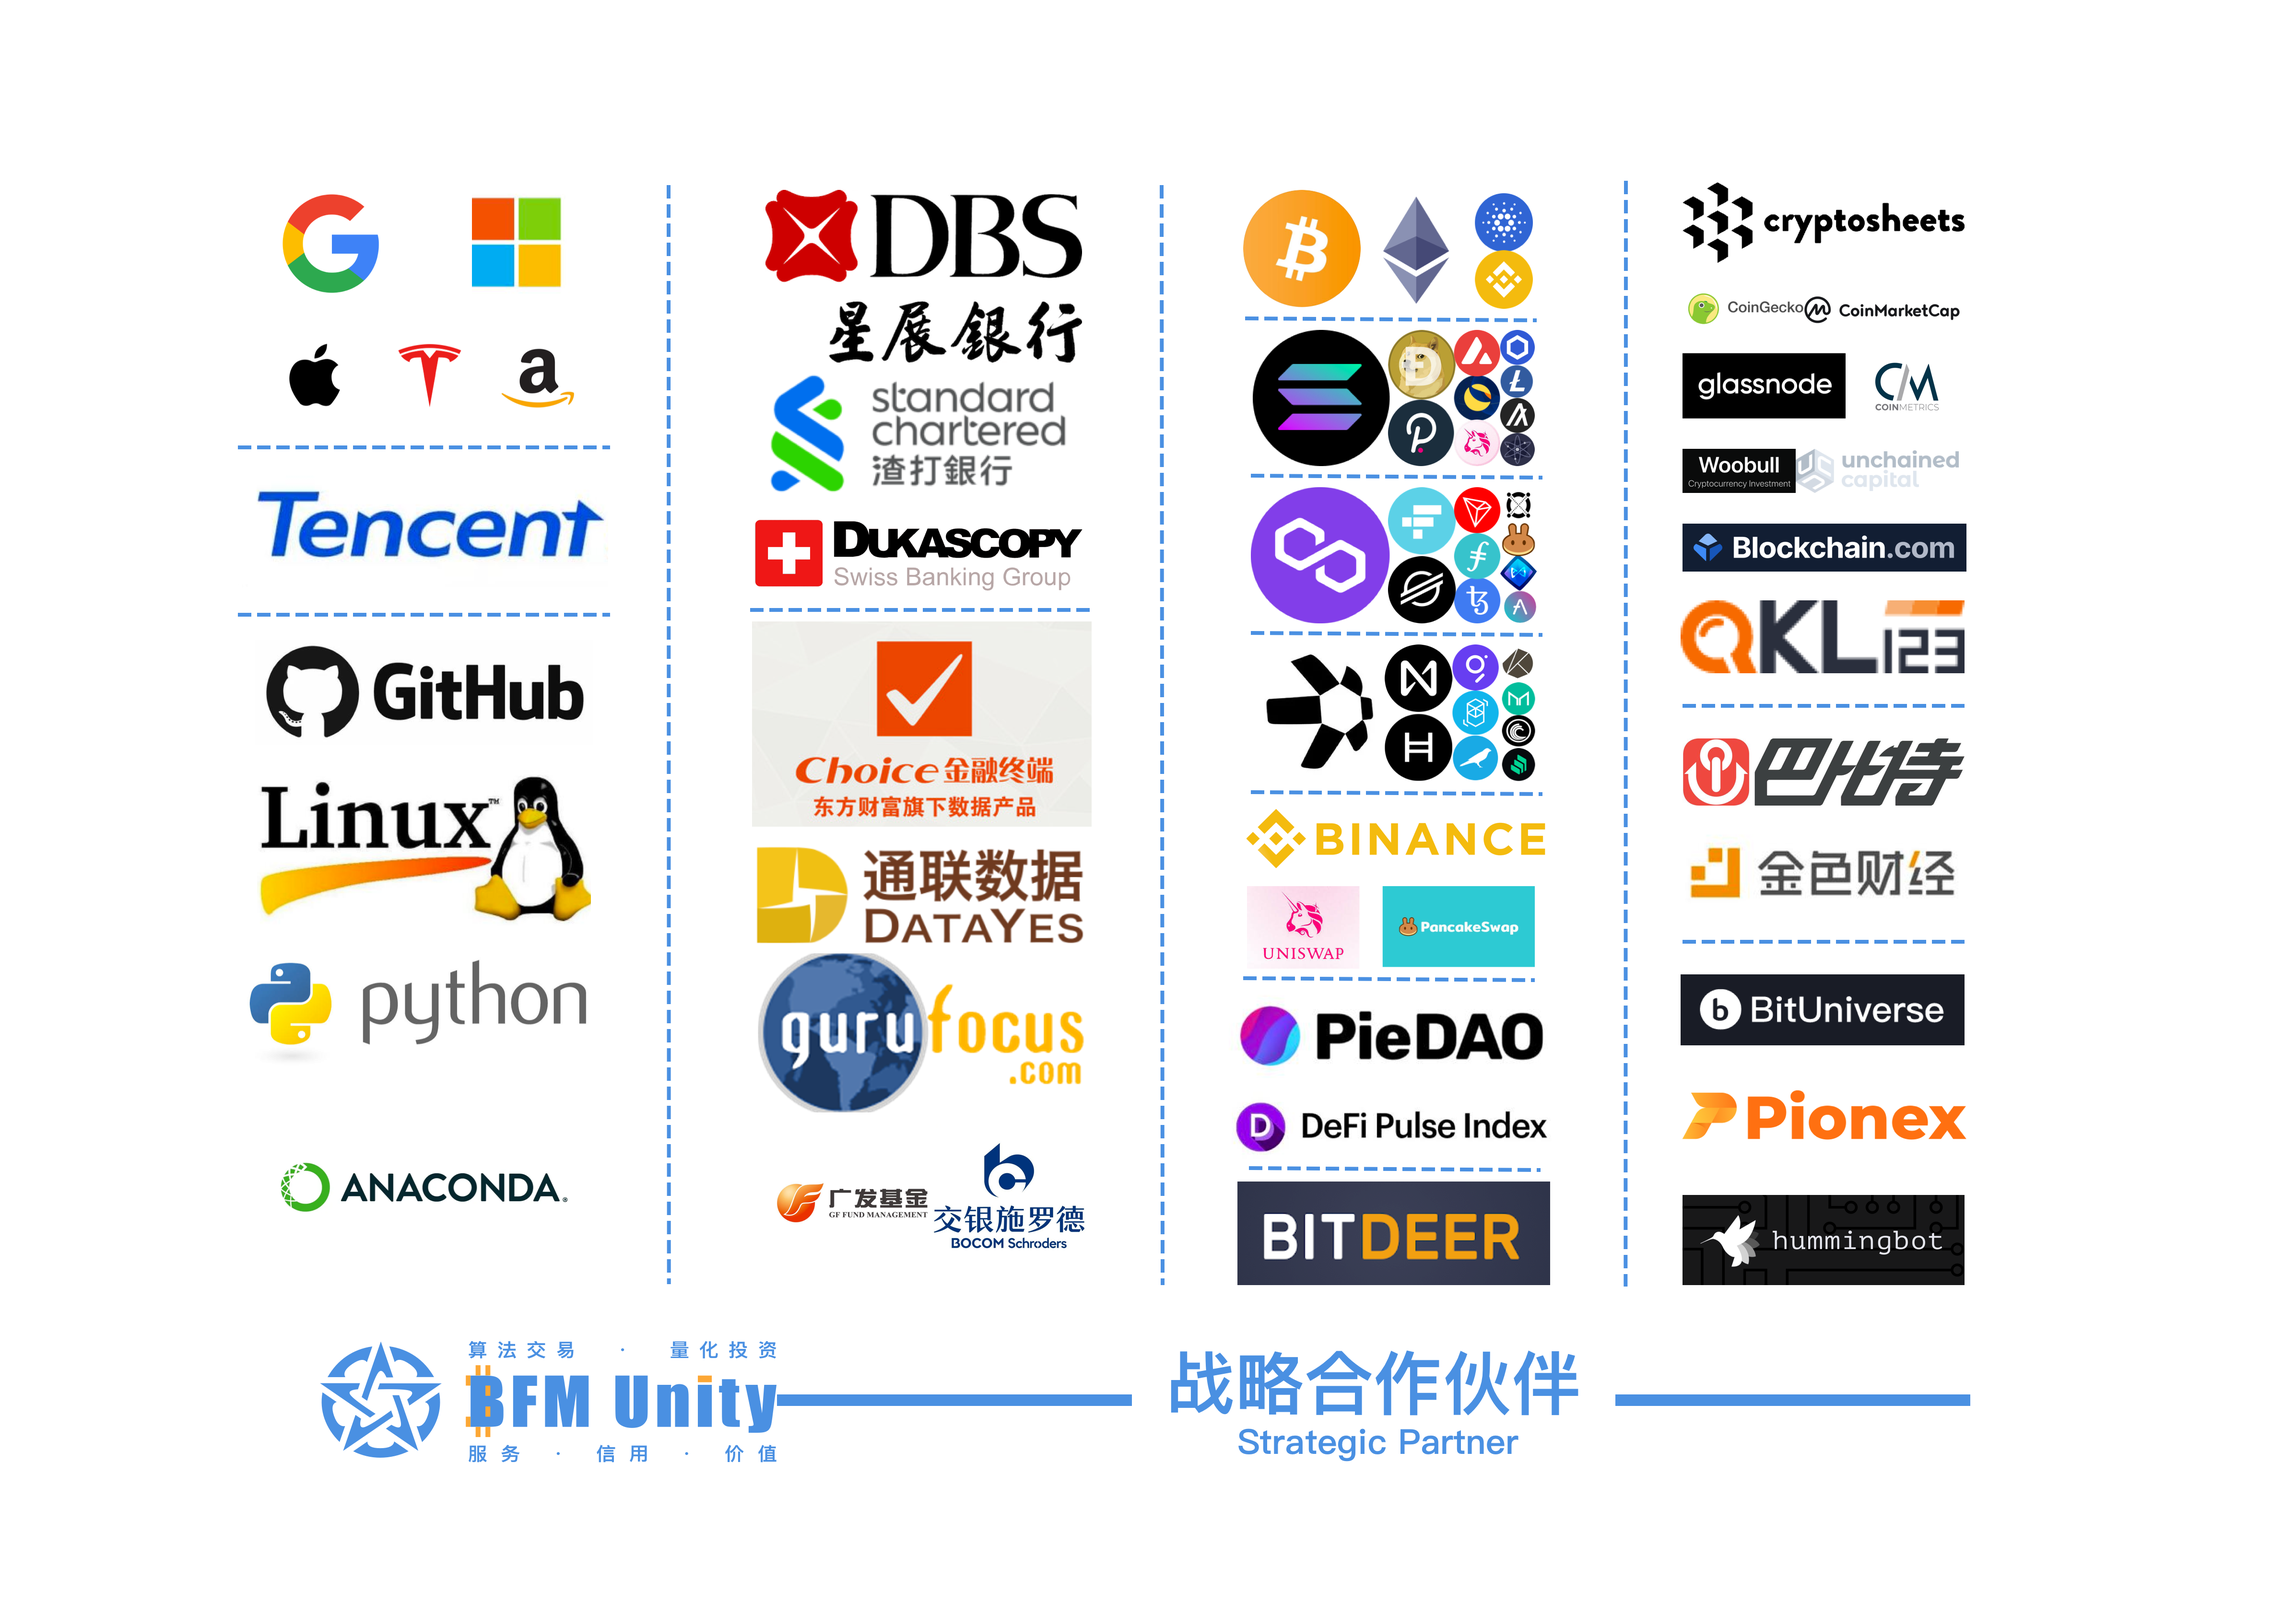
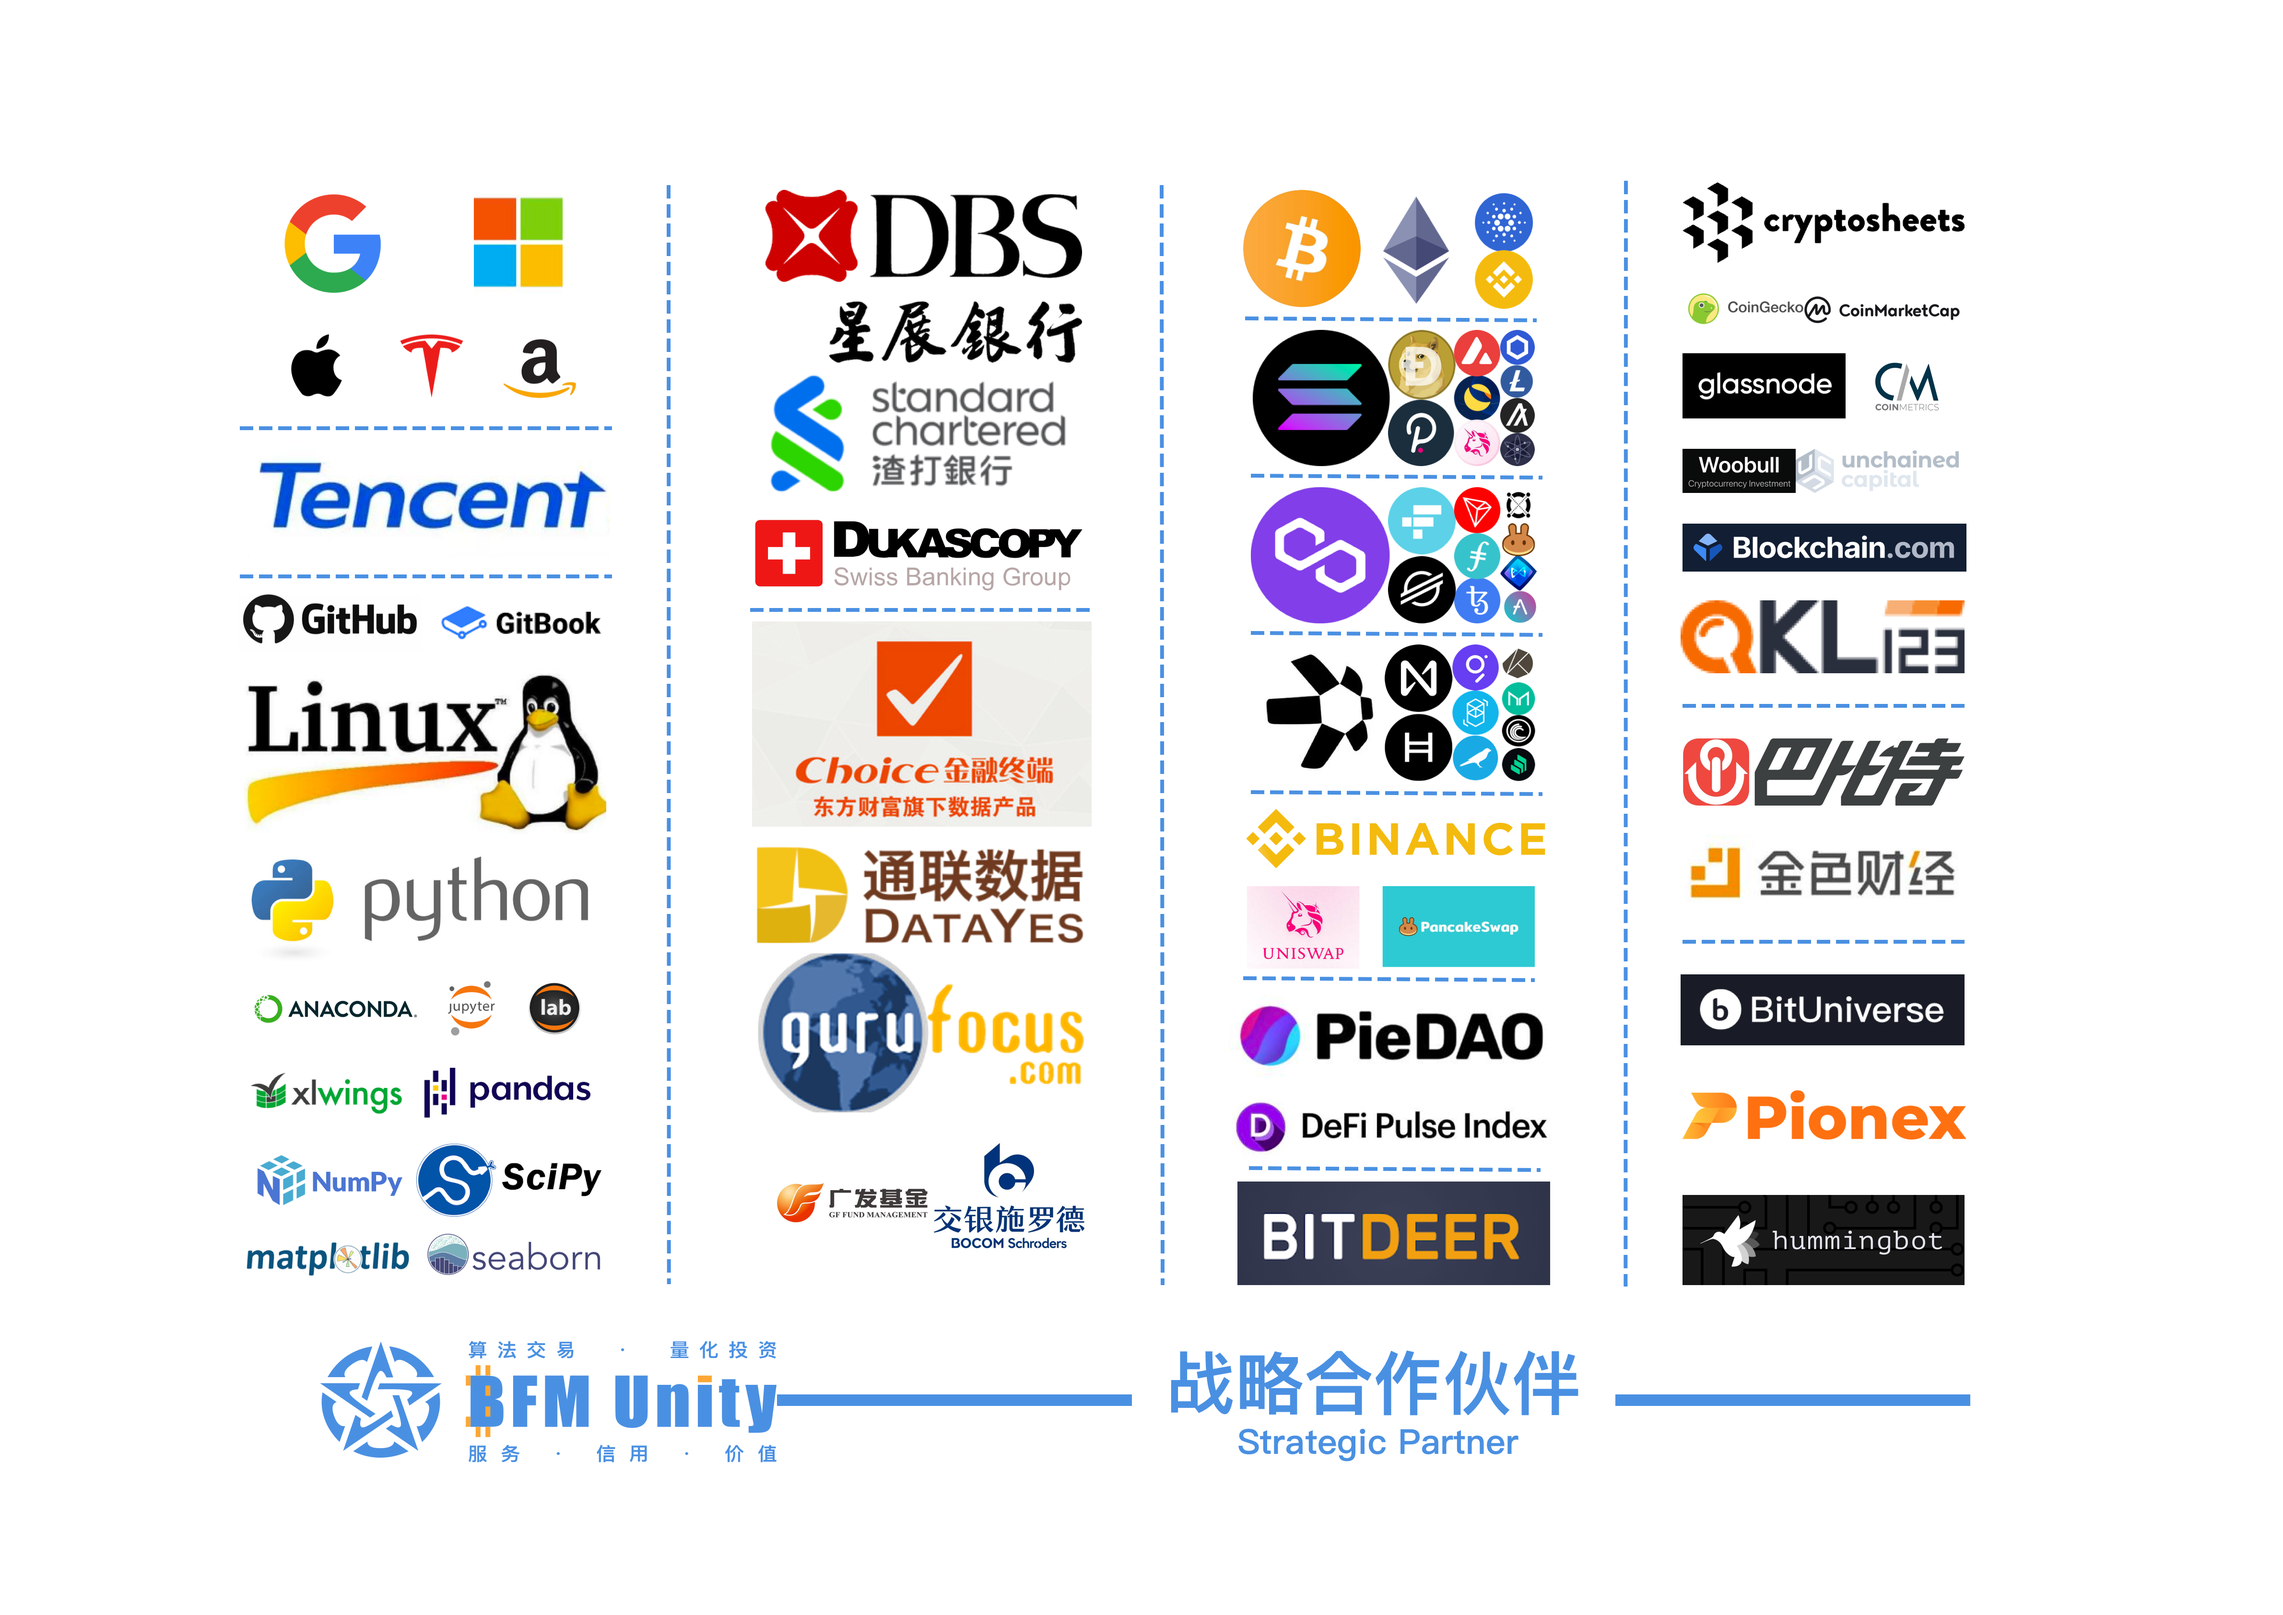
GitBook: [#3582] 你好世界

Changed region(s): [[0.0933, 0.2182, 0.2798, 0.8106], [0.2176, 0.1247, 0.2487, 0.1871], [0.1866, 0.1871, 0.2176, 0.2182]]

diff --git a/bfm-unity-bi-fang-meng-lian-he-ti/lv0-zhu-jian-qiao-yin-dao.md b/bfm-unity-bi-fang-meng-lian-he-ti/lv0-zhu-jian-qiao-yin-dao.md
@@ -100,7 +100,7 @@ NOTE: **This project is in beta. Use at your own risk.**
 
 ## 我们的经合关系 <a href="#zhan-lve-he-zuo-huo-ban" id="zhan-lve-he-zuo-huo-ban"></a>
 
-![](<../.gitbook/assets/BFM Unity 战略合作伙伴 (7).png>)
+![](<../.gitbook/assets/BFM Unity 战略合作伙伴 (4).png>)
 
 [全球最大的50家银行在区块链领域的布局](https://cloud.tencent.com/developer/article/1356837)
 
